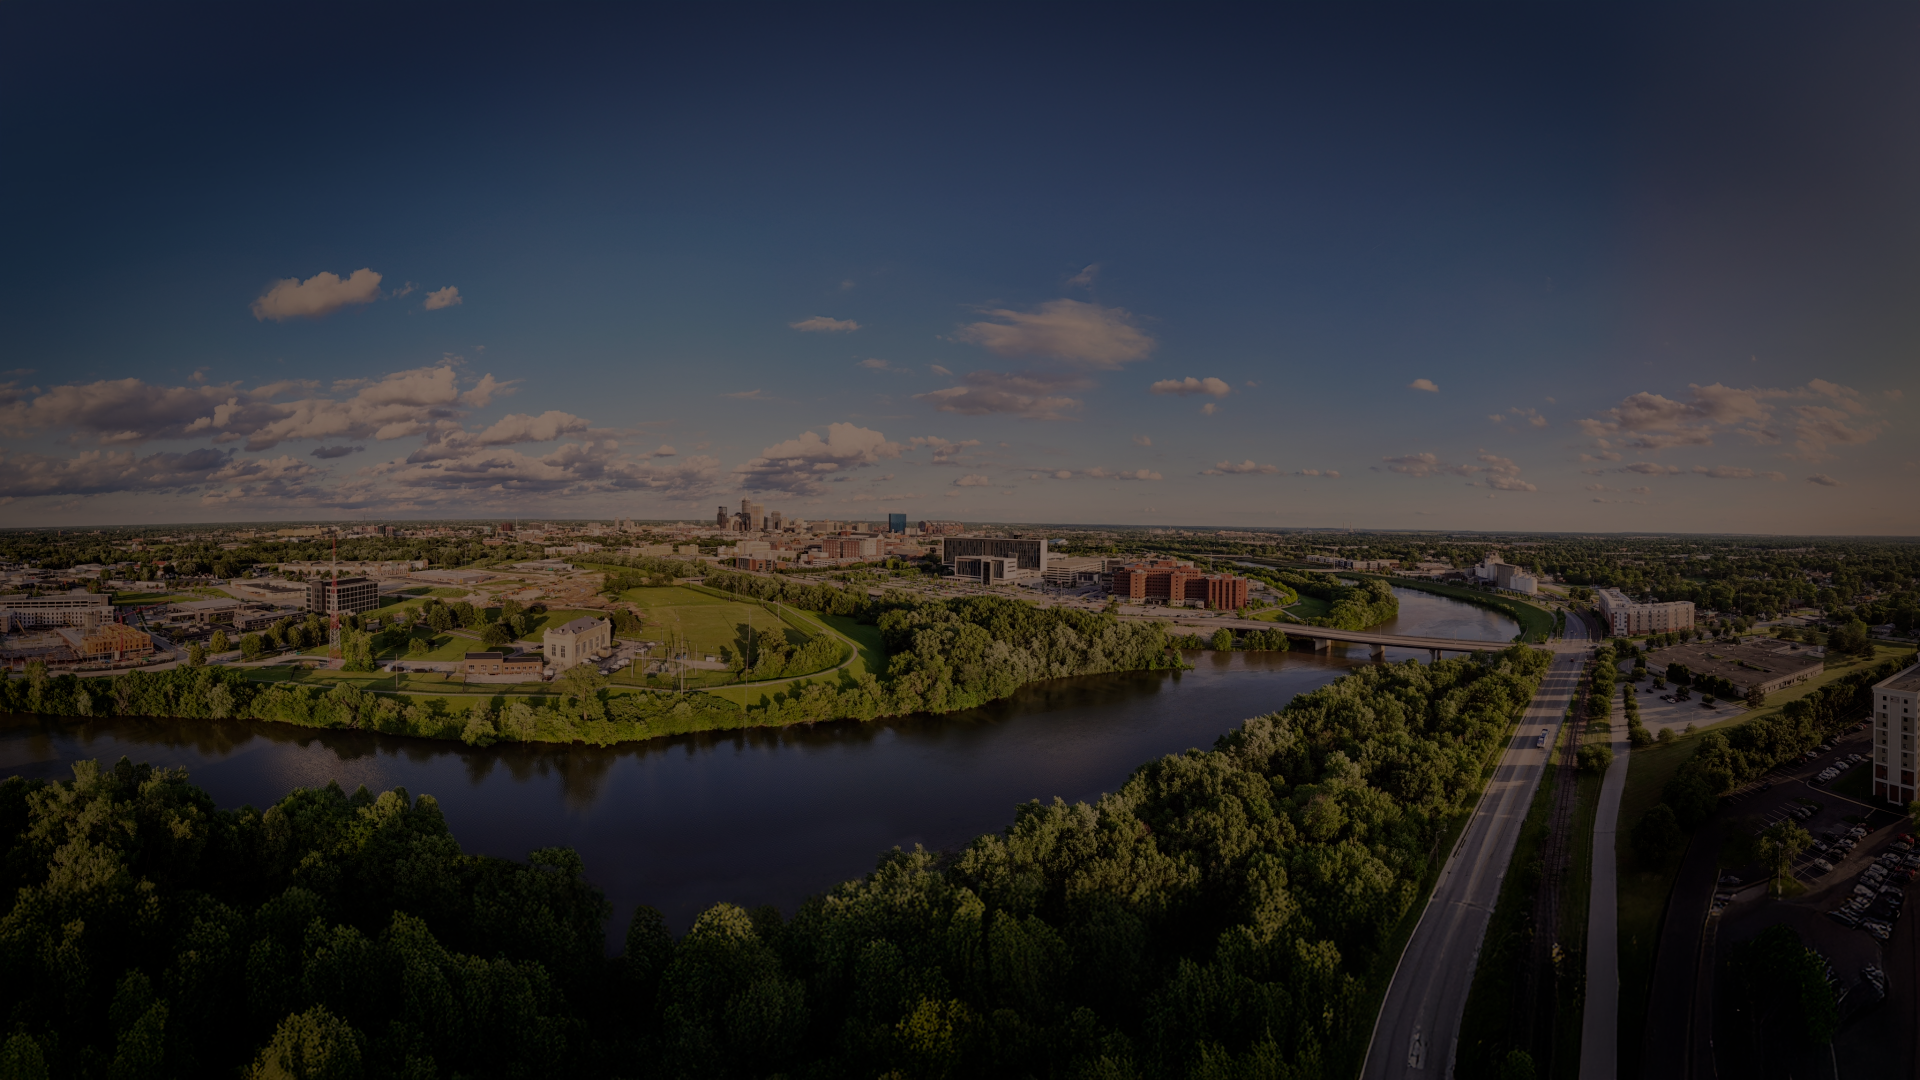
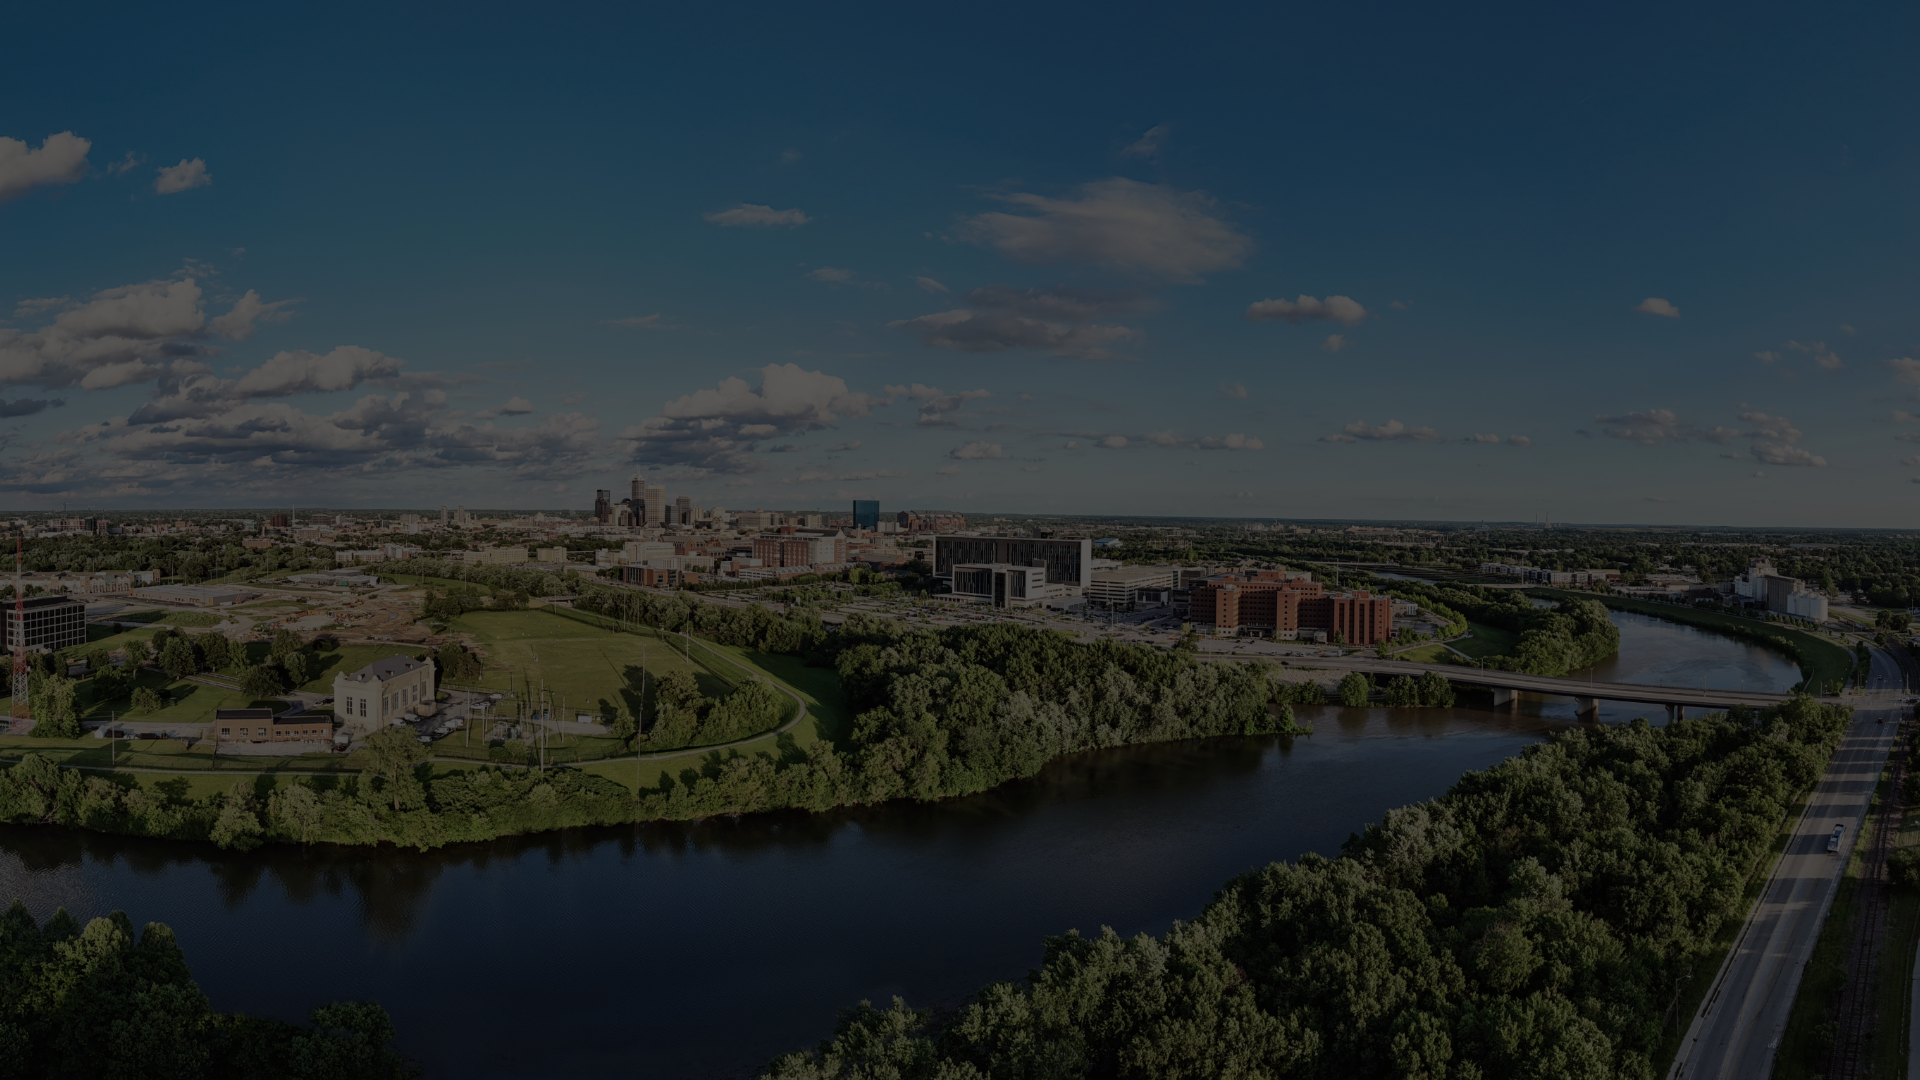
deploy: 4594a54e9116a2f845d3372c2c3cd3efbfa5a3a1

diff --git a/index.html b/index.html
@@ -10,7 +10,7 @@ Dark
 <svg class="bi ms-auto d-none"><use href="#check2"/></svg></button></li><li><button type=button class="dropdown-item d-flex align-items-center active" data-bs-theme-value=auto aria-pressed=true>
 <svg class="bi me-2 opacity-50"><use href="#circle-half"/></svg>
 Auto
-<svg class="bi ms-auto d-none"><use href="#check2"/></svg></button></li></ul></div></li></ul><div class="scroll-indicator scroll-right"></div></div><div class="d-none d-lg-block td-navbar__search"><div class=td-search><div class=td-search__icon></div><input type=search class="td-search__input form-control td-search-input" placeholder="Search this site…" aria-label="Search this site…" autocomplete=off></div></div></div></nav></header><div class="container-fluid td-default td-outer"><main role=main class=td-main><style>.td-heading-self-link{display:none}</style><link rel=preload as=image href=/featured-background_hu_c0ebc7eff65162cc.png media="(max-width: 1200px)"><link rel=preload as=image href=/featured-background_hu_18ebc6173d40ffc0.png media="(min-width: 1200px)"><style>#td-cover-block-0{background-image:url(/featured-background_hu_c0ebc7eff65162cc.png)}@media only screen and (min-width:1200px){#td-cover-block-0{background-image:url(/featured-background_hu_18ebc6173d40ffc0.png)}}</style><section id=td-cover-block-0 class="row td-cover-block td-cover-block--height-full js-td-cover td-overlay td-overlay--dark -bg-dark"><div class=col-12><div class="container td-overlay__inner"><div class=text-center><h1 class="display-1 mt-0 mt-md-5 pb-4">Welcome to Hoosier Mesh</h1><div class="pt-3 lead"><a class="btn btn-lg btn-primary me-3 mb-4" href=/docs/>Get a node <i class="fas fa-arrow-alt-circle-right ms-2"></i>
+<svg class="bi ms-auto d-none"><use href="#check2"/></svg></button></li></ul></div></li></ul><div class="scroll-indicator scroll-right"></div></div><div class="d-none d-lg-block td-navbar__search"><div class=td-search><div class=td-search__icon></div><input type=search class="td-search__input form-control td-search-input" placeholder="Search this site…" aria-label="Search this site…" autocomplete=off></div></div></div></nav></header><div class="container-fluid td-default td-outer"><main role=main class=td-main><style>.td-heading-self-link{display:none}</style><link rel=preload as=image href=/featured-background_hu_bbabb03a70d8d3bf.png media="(max-width: 1200px)"><link rel=preload as=image href=/featured-background_hu_ac7d0b04583227a7.png media="(min-width: 1200px)"><style>#td-cover-block-0{background-image:url(/featured-background_hu_bbabb03a70d8d3bf.png)}@media only screen and (min-width:1200px){#td-cover-block-0{background-image:url(/featured-background_hu_ac7d0b04583227a7.png)}}</style><section id=td-cover-block-0 class="row td-cover-block td-cover-block--height-full js-td-cover td-overlay td-overlay--dark -bg-dark"><div class=col-12><div class="container td-overlay__inner"><div class=text-center><h1 class="display-1 mt-0 mt-md-5 pb-4">Welcome to Hoosier Mesh</h1><div class="pt-3 lead"><a class="btn btn-lg btn-primary me-3 mb-4" href=/docs/>Get a node <i class="fas fa-arrow-alt-circle-right ms-2"></i>
 </a><a class="btn btn-lg btn-secondary me-3 mb-4" href=https://discord.gg/VrFcGTrw6V>Join Discord <i class="fab fa-discord ms-2"></i></a><p class="lead mt-5">Porridge temperature assessment &mdash; in the cloud!</p><p><a class="btn btn-link text-info" href=#td-block-1 aria-label="Read more"><i class="fa-solid fa-circle-chevron-down" style=font-size:400%></i></a></p></div></div></div></div></section><div><a id=td-block-1 class=td-offset-anchor></a></div><section class="row td-box td-box--primary position-relative td-box--height-auto"><div class=col-12><div class="container text-center td-arrow-down"><div class="h4 mb-0"><p>Goldydocs provides a single web UI providing visibility into porridge
 temperature, chair size, and bed softness metrics! You can even find out who&rsquo;s
 been eating <strong>your</strong> porridge.</p><p>(Sadly, Goldydocs isn&rsquo;t a real project, but you can use this site as an example
